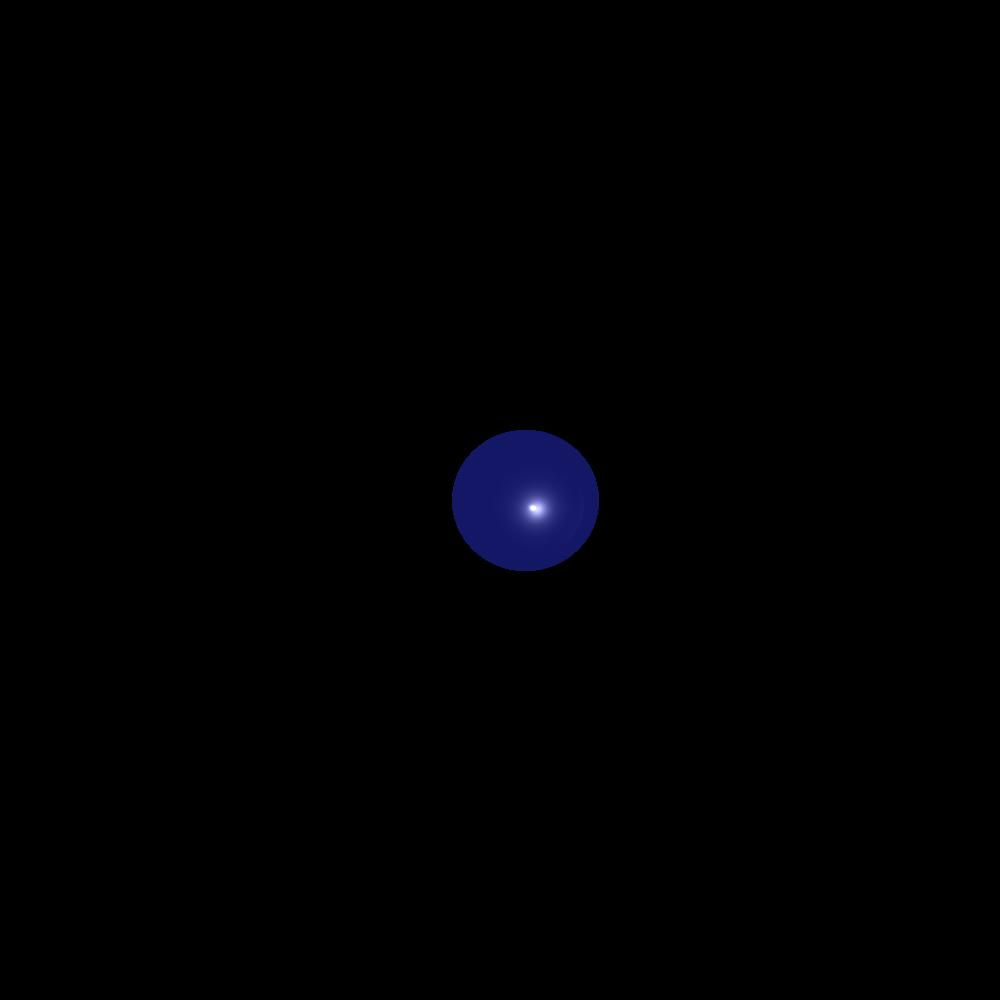
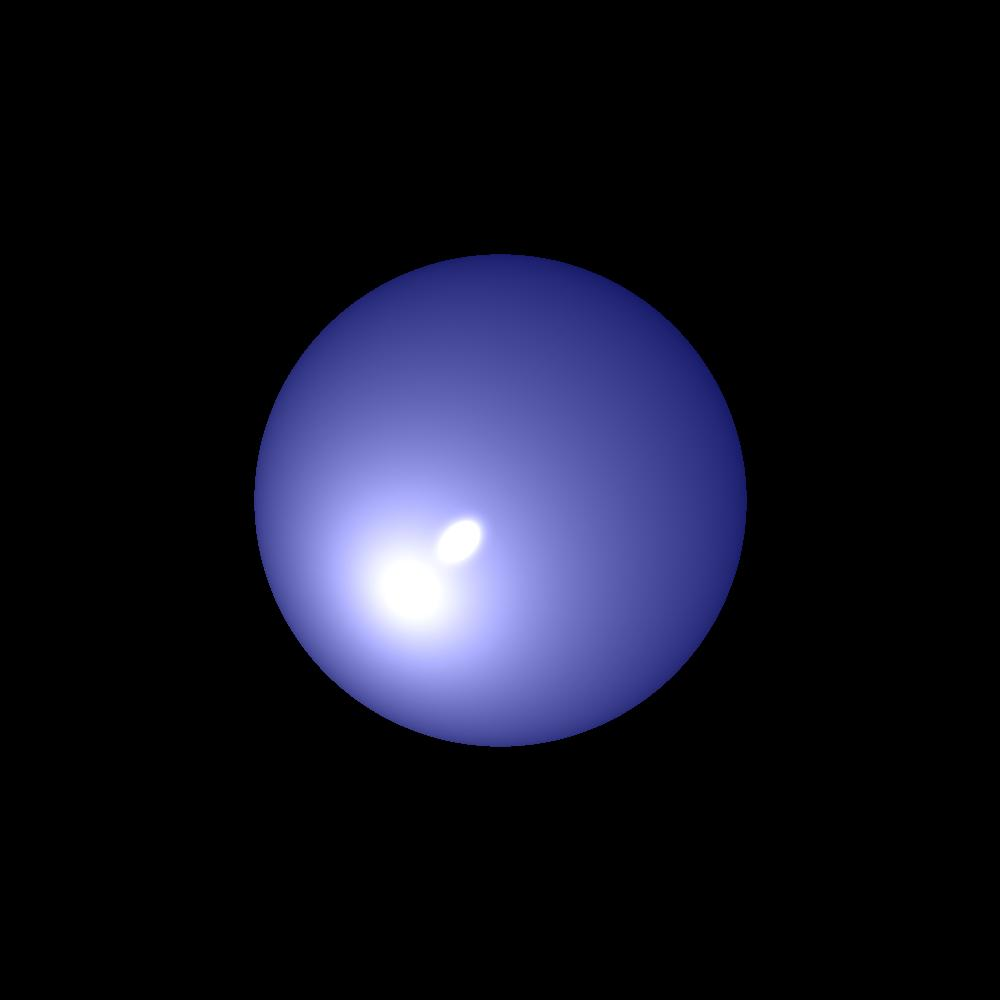
Paint

Changed region(s): [[0.248, 0.248, 0.744, 0.775]]

diff --git a/src/unittests/renderTest.java b/src/unittests/renderTest.java
@@ -12,40 +12,12 @@ public class renderTest {
     @Test
     public void renderImage() {//
 
-        Triangle upLeft     = new Triangle(new Point3D(100,0,-49),new Point3D(0,100,-49),new Point3D(100,100,-49),new Color(100,90,250),new Material(20,15,2));
-        Triangle upRight    = new Triangle(new Point3D(-100,0,-49),new Point3D(0,100,-49),new Point3D(-100,100,-49),new Color(50,20,200),new Material(50,15,100));
-        Triangle downLeft   = new Triangle(new Point3D(100,0,-49),new Point3D(0,-100,-49),new Point3D(100,-100,-49),new Color(33,50,45),new Material(10,50,5));
-        Triangle downRight  = new Triangle(new Point3D(-100,0,-49),new Point3D(0,-100,-49),new Point3D(-100,-100,-49),new Color(55,140,90),new Material(10,100,70));
-
-        Sphere middle = new Sphere(new Point3D(0,0,-50),35,new Color(2,2,2),new Material(1,1,1));
-
-        Camera camera3 = new Camera(new Point3D(0,0,0),new Vector(0,0,-1),new Vector(-1,0,0));
-
-        Scene myScene = new Scene("Triangles and Sphere, Israel and Eli");
-        myScene.setDistance(50);
-        myScene.setCamera(camera3);
-        //myScene.setBackgroundColor(new Color(75,127,190));
-
-       // myScene.addGeometry(upLeft);
-        //myScene.addGeometry(upRight);
-        //myScene.addGeometry(downLeft);
-        //myScene.addGeometry(downRight);
-        myScene.addGeometry(middle);
-        //LightSource l=new PointLight(new Color(45,15,98),new Point3D(0,50,-45),1,2,0.5);
-        LightSource l=new SpotLight(new Color(200,140,255),new Vector(0,0,-1), new Point3D(0,0,-15),0.5,0.25,0.0045);
-        myScene.addLight(l);
-        ImageWriter sceneWriter = new ImageWriter("Triangles and Sphere, Israel Eli",500,500,500,500);
-        Render myRender = new Render(myScene,sceneWriter);
-
-        //myRender.renderImage();
-        //myRender.printGrid(50);
-        myRender.getImageWriter().writeToimage();
 
 
         Sphere middle2 = new Sphere(new Point3D(50, 0, 0),
                 49,new Color(0,20,100),new Material(1,1,20));
 
-        Camera camera2 = new Camera(new Point3D(-10, -10, 0),
+        Camera camera2 = new Camera(new Point3D(0, 0, 0),
 
                 new Vector(1, 0, 0), new Vector(0, 1, 0));
         Scene myScene2 = new Scene("sphere in the spot light");
@@ -55,14 +27,14 @@ public class renderTest {
         myScene2.addGeometry(middle2);
         myScene2.setAmbientlight(new Color(20,20,20), 0.1);
 
-        PointLight mySpotLight = new PointLight(new Color (255,255,255),/*new Vector(1,0.5,0.5),*/
+        PointLight mySpotLight = new PointLight(new Color (255,255,255),
                 new Point3D(-0.5,-2,-2),
-                1,0.01,0.1
+                1,0.0001,0.001
                 );
         /*SpotLight mySpotLight = new SpotLight(
-                new Color (255,0,255),new Vector(2,-2,30),
-                new Point3D(-1,1,-3),
-                5,5,12.5
+                new Color (255,255,255),new Vector(1,1,0),
+                new Point3D(-0.5,-2,0),
+                1,0.001,0.001
                 );*/
         //DirectionalLight dire2=new DirectionalLight(new Color(250,255,250),new Vector(0,0,-1));
         //myScene2.addLight(dire2);
@@ -76,65 +48,6 @@ public class renderTest {
         //myRender.printGrid(100);
         myRender2.getImageWriter().writeToimage();
 
-        Sphere middle3= new Sphere(new Point3D(50, 0, 0),
-                49,new Color(0,0,60),new Material(1,1,1));
 
-        Camera camera4 = new Camera(new Point3D(0, 0, 0),
-
-                new Vector(1, 0, 0), new Vector(0, 1, 0));
-        Scene myScene3 = new Scene("sphere in the spot lightfrfrr");
-        myScene3.setDistance(50);
-        myScene3.setCamera(camera4);
-        myScene3.setBackgroundColor(new Color(0, 0, 0));
-        myScene3.addGeometry(middle3);
-        myScene3.setAmbientlight(new Color(120, 120, 120), 0.1);
-
-        PointLight mySpotLigh2t = new PointLight(new Color (255,0,255),
-                new Point3D(1,0,0),
-                5,5,10
-        );
-        /*SpotLight mySpotLight = new SpotLight(
-                new Color (255,0,255),new Vector(2,-2,30),
-                new Point3D(-1,1,-3),
-                5,5,12.5
-                );*/
-        myScene2.addLight(mySpotLigh2t);
-
-        ImageWriter sceneWriter3 = new ImageWriter("sphere in the spot lig222ht",1000,1000,1000,1000);
-        Render myRender3 = new Render(myScene3,sceneWriter3);
-
-        myRender3.renderImage();
-
-        //myRender.printGrid(100);
-        myRender3.getImageWriter().writeToimage();
-
-
-        Triangle triangle1     = new Triangle(new Point3D(130,-130,-50),new Point3D(-130,-130,-50),new Point3D(-130,130,-40),new Color(40,40,40),new Material(0.5,1,1));
-        Triangle triangle2    = new Triangle(new Point3D(-130,130,-40),new Point3D(130,130,-40),new Point3D(130,-130,-50),new Color(40,40,40),new Material(0.5,1,1));
-        Camera camera5 = new Camera(new Point3D(0, 0, 0),
-
-                new Vector(0, 0, -1), new Vector(1, 0, 0));
-        Scene myScene6 = new Scene("sphere in the spot ligddddhtfrfrr");
-        myScene6.setDistance(170);
-        myScene6.setCamera(camera5);
-        myScene6.setBackgroundColor(new Color(0, 0, 0));
-        myScene6.addGeometry(triangle1);
-        myScene6.addGeometry(triangle2);
-        myScene6.setAmbientlight(new Color(0,0,0), 0.1);
-
-        SpotLight mySpotLigh233t = new SpotLight(new Color (201,226,255),new Vector(0,1,-26),
-                new Point3D(0,0,0),
-                0.8,0.000001,0.0000001
-        );
-        DirectionalLight dire=new DirectionalLight(new Color(250,250,250),new Vector(0,1,0));
-        myScene6.addLight(mySpotLigh233t);
-        myScene6.addLight(dire);
-        ImageWriter sceneWriter4 = new ImageWriter("sphere in the spot ligsss222ht",1000,1000,1000,1000);
-        Render myRender5 = new Render(myScene6,sceneWriter4);
-
-        myRender5.renderImage();
-
-        //myRender.printGrid(100);
-        myRender5.getImageWriter().writeToimage();
     }
 }

diff --git a/src/Renderer/Render.java b/src/Renderer/Render.java
@@ -29,6 +29,11 @@ public class Render {
         int k;
         for (int i = 1; i < _imageWriter.getNx(); i++) {
             for (int j = 1; j < _imageWriter.getNy(); j++) {
+                if(i==740&&j>=500) {
+                    k = 5;
+                    //this._imageWriter.writePixel(i, j, new java.awt.Color(0,0,0));
+                    //continue;
+                }
                 Ray ray=_scene.getCamera().constructRayThroughPixel(_imageWriter.getNx(),_imageWriter.getNy(),i,j,_scene.getDistance(),_imageWriter.getWidth(),_imageWriter.getHeight());
                 Map<Geometry,List<Point3D>> intersectionPoints=getSceneRayIntersections(ray);
                 if(intersectionPoints.isEmpty())
@@ -86,8 +91,9 @@ public class Render {
             else {
                 Color lightIntensity = lightsource.getIntensity(point);
                 Vector l = lightsource.getL(point);
-                Vector v = (_scene.getCamera().getP0().vectorSubstract(point)).NormalVector();
-                color.add(calcDiffusive(kd, l, n, lightIntensity), calcSpecular(ks, l, n, v, nShininess, lightIntensity));
+                Vector v = (point.vectorSubstract(_scene.getCamera().getP0())).NormalVector();
+                if (l.ScalarProduct(n)*v.ScalarProduct(n) > 0)
+                    color.add(calcDiffusive(kd, l, n, lightIntensity), calcSpecular(ks, l, n, v, nShininess, lightIntensity));
             }
         }
 
@@ -105,14 +111,14 @@ public class Render {
      */
     private Color calcDiffusive(double kd, Vector l, Vector n, Color lightIntensity) {
         Color result = new Color(lightIntensity);
-        double scalingFactor = kd *((l.multipliedbyScalar(-1)).ScalarProduct(n));//needs to be checked with teacher todo
-        if(scalingFactor > 0 ) {
+        double scalingFactor = kd *(Math.abs(l.ScalarProduct(n)));//needs to be checked with teacher todo
+        //if(scalingFactor > 0 ) {
             result.scale(scalingFactor);
             return result;
-        }
-        else{
-            return new Color(0,0,0);
-        }
+        //}
+        //else{
+        //    return new Color(0,0,0);
+        //}
     }
 
     /**
@@ -126,17 +132,17 @@ public class Render {
      */
     private Color calcSpecular(double ks,Vector l,Vector n,Vector v,int nShininess,Color lightIntensity) {
         Color result = new Color(lightIntensity);
-        double temp = -2 * l.ScalarProduct(n);
-        Vector nComponent = n.multipliedbyScalar(temp);
-        Vector r = l.add(nComponent);
-        double scalingFactor = ks * Math.pow(v.ScalarProduct(r),nShininess);
-        if ((l.multipliedbyScalar(-1).ScalarProduct(n) > 0 &&v.ScalarProduct(n) > 0)|| (l.multipliedbyScalar(-1).ScalarProduct(n) < 0 && v.ScalarProduct(n) < 0)) {
+        //double temp = -2 * l.ScalarProduct(n);
+        //Vector nComponent = n.multipliedbyScalar(temp);
+        Vector r = l.add(n.multipliedbyScalar(-2 * l.ScalarProduct(n)));
+        double scalingFactor = ks * Math.pow(v.multipliedbyScalar(-1).ScalarProduct(r),nShininess);
+        //if ((l.multipliedbyScalar(-1).ScalarProduct(n) > 0 &&v.ScalarProduct(n) > 0)|| (l.multipliedbyScalar(-1).ScalarProduct(n) < 0 && v.ScalarProduct(n) < 0)) {
             result.scale(scalingFactor);
             return result;
-        }
-        else{
-            return new Color(0,0,0);
-        }
+        //}
+        //else{
+        //    return new Color(0,0,0);
+        //}
     }
 
     /**

diff --git a/src/primitives/Material.java b/src/primitives/Material.java
@@ -19,6 +19,8 @@ public class Material {
     public Material(double Kd,double Ks,int Shininess) {
         this._Kd=Kd;
         this._Ks=Ks;
+        if(Shininess%2==0)
+            Shininess++;
         this._nShininess=Shininess;
     }
 
